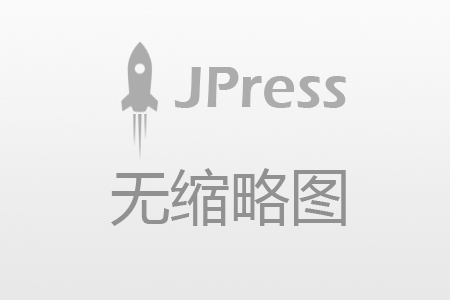
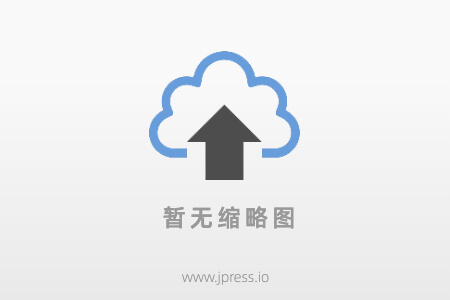
新增：图片上传组件 jpress-image-browser

Changed region(s): [[0.2489, 0.15, 0.7778, 0.78], [0.4044, 0.9, 0.5911, 0.96]]

diff --git a/jpress-web/src/main/webapp/WEB-INF/views/admin/finance/setting_pay.html b/jpress-web/src/main/webapp/WEB-INF/views/admin/finance/setting_pay.html
@@ -56,15 +56,11 @@
                             <div class="form-group row">
                                 <label class="col-sm-2 col-form-label">微信收款二维码</label>
                                 <div class="col-sm-6">
-                                    <button type="button"
-                                            for-src="wechatx_pay_qrcode_img"
-                                            for-input="wechatx_pay_qrcode_input"
-                                            class="btn-image-browser btn btn-flat btn-default btn-xs">
-                                        <i class="fa fa-fw fa-image"></i> 选择图片
-                                    </button>
-                                    <br/>
-                                    <img src="#(CPATH)#option('wechatx_pay_qrcode','/static/commons/img/nothumbnail.jpg')" id="wechatx_pay_qrcode_img">
-                                    <input type="hidden" id="wechatx_pay_qrcode_input" name="wechatx_pay_qrcode" value="#option('wechatx_pay_qrcode')">
+                                    <div class="jpress-image-browser">
+                                        <input type="hidden" name="wechatx_pay_qrcode" value="#option('wechatx_pay_qrcode')"/>
+                                        <img src="#(CPATH)#option('wechatx_pay_qrcode','/static/commons/img/nothumbnail.jpg')">
+                                        <a class="image-reset"> <i class="fa fa-edit"></i></a>
+                                    </div>
                                 </div>
                             </div>
 
@@ -90,15 +86,11 @@
                             <div class="form-group row">
                                 <label class="col-sm-2 col-form-label">支付宝收款二维码</label>
                                 <div class="col-sm-6">
-                                    <button type="button"
-                                            for-src="alipayx_pay_qrcode_img"
-                                            for-input="alipayx_pay_qrcode_input"
-                                            class="btn-image-browser btn btn-flat btn-default btn-xs">
-                                        <i class="fa fa-fw fa-image"></i> 选择图片
-                                    </button>
-                                    <br/>
-                                    <img src="#(CPATH)#option('alipayx_pay_qrcode','/static/commons/img/nothumbnail.jpg')" id="alipayx_pay_qrcode_img">
-                                    <input type="hidden" id="alipayx_pay_qrcode_input" name="alipayx_pay_qrcode" value="#option('alipayx_pay_qrcode')">
+                                    <div class="jpress-image-browser">
+                                        <input type="hidden" name="alipayx_pay_qrcode_input" value="#option('alipayx_pay_qrcode_input')"/>
+                                        <img src="#(CPATH)#option('alipayx_pay_qrcode_input','/static/commons/img/nothumbnail.jpg')">
+                                        <a class="image-reset"> <i class="fa fa-edit"></i></a>
+                                    </div>
                                 </div>
                             </div>
 

diff --git a/jpress-web/src/main/webapp/static/admin/js/jpressadmin.js b/jpress-web/src/main/webapp/static/admin/js/jpressadmin.js
@@ -75,8 +75,6 @@ function setActiveMenu(pathName) {
 }
 
 
-
-
 /**
  * 设置 layer 组件
  */
@@ -624,8 +622,8 @@ function initOptionFormSubmit() {
 
 
 function initImageBrowserButton() {
-    $(".btn-image-browser").on("click", function () {
-        var imgBrowserBtn = $(this);
+    $(".btn-image-browser,.jpress-image-browser a").on("click", function () {
+        var $this = $(this);
         layer.open({
             type: 2,
             title: '选择图片',
@@ -636,12 +634,19 @@ function initImageBrowserButton() {
             content: jpress.cpath + '/admin/attachment/browse',
             end: function () {
                 if (layer.data.src != null) {
-                    var img = imgBrowserBtn.attr("for-src");
-                    var input = imgBrowserBtn.attr("for-input");
-                    $("#" + img).attr("src", jpress.cpath + layer.data.src);
-                    $("#" + img).trigger("srcChanged", jpress.cpath + layer.data.src);
-                    $("#" + input).val(layer.data.src);
-                    $("#" + input).trigger("valChanged", layer.data.src);
+                    var img = $this.attr("for-src");
+                    var input = $this.attr("for-input");
+
+                    if (img) {
+                        $("#" + img).attr("src", getContextPath() + layer.data.src).trigger("srcChanged", getContextPath() + layer.data.src);;
+                    } else {
+                        $this.siblings('img').attr('src', getContextPath() + layer.data.src).trigger("srcChanged", getContextPath() + layer.data.src);
+                    }
+                    if (input) {
+                        $("#" + input).val(layer.data.src).trigger("valChanged", layer.data.src);
+                    }else {
+                        $this.siblings('input[type="hidden"]').val(layer.data.src).trigger("valChanged", layer.data.src);;
+                    }
                 }
             }
         });

diff --git a/jpress-web/src/main/webapp/static/admin/css/jpressadmin.css b/jpress-web/src/main/webapp/static/admin/css/jpressadmin.css
@@ -420,3 +420,48 @@ label:not(.form-check-label):not(.custom-file-label) {
     left: -26px;
     color: #999;
 }
+
+.jpress-image-browser {
+    position: relative;
+    /*border: 1px solid #eee;*/
+    display: inline-block;
+    cursor: move;
+    text-align: center;
+    max-width: 300px;
+}
+
+.jpress-image-browser img {
+    width: 100%;
+    height: 100%;
+}
+
+.form-group .jpress-image-browser img {
+    border: none;
+}
+
+jpress-image-browser .image-reset {
+    display: none;
+}
+
+.jpress-image-browser:hover .image-reset {
+    position: absolute;
+    bottom: 0;
+    left: 0;
+    color: #FFF;
+    width: 100%;
+    z-index: 10;
+    height: 100%;
+    line-height: 200px;
+    background: #000000aa;
+    filter: alpha(opacity=30);
+    -moz-opacity: 0.5;
+    font-size: 40px;
+    cursor: pointer;
+    display: flex;
+    align-items: center;
+    justify-content: center;
+}
+
+.jpress-image-browser .image-reset {
+    display: none;
+}
